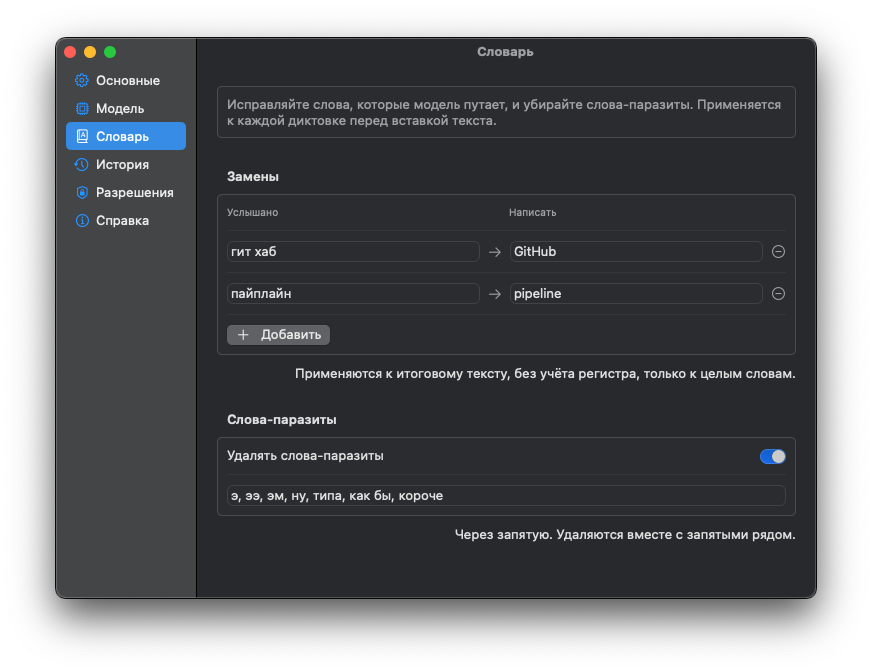
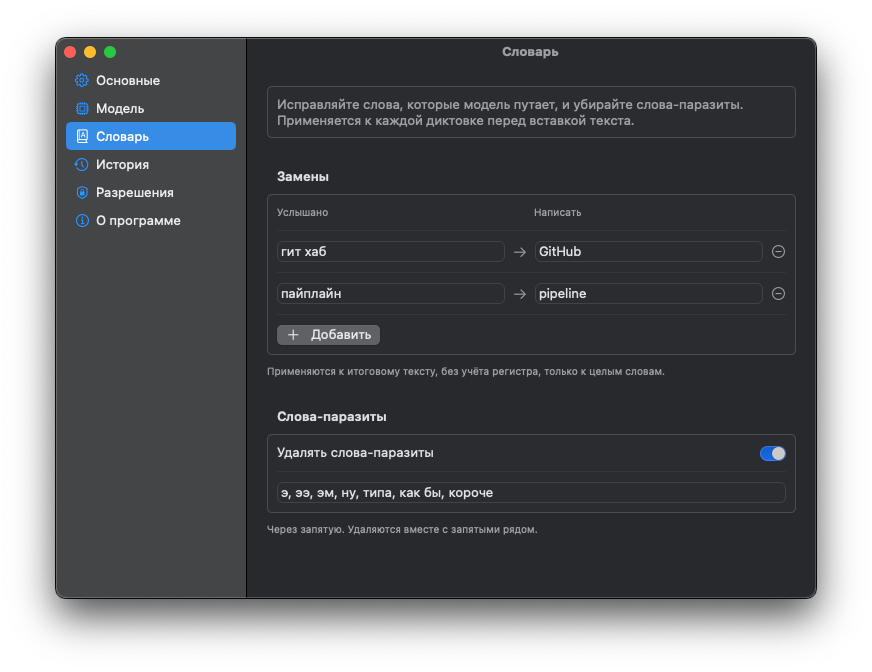
Settings: NSSplitViewController sidebar (190pt), leading footers, restore About label, new screenshots

diff --git a/Sources/Speak2Text/SettingsWindow.swift b/Sources/Speak2Text/SettingsWindow.swift
@@ -1,38 +1,31 @@
 import Cocoa
 import SwiftUI
+import Combine
 
-/// Modern settings window: translucent sidebar (NavigationSplitView) + grouped forms in the detail pane.
-struct SettingsRoot: View {
+/// Modern settings window: translucent sidebar (NSSplitViewController) + grouped forms in the detail pane.
+private let settingsItems: [(id: String, title: String, symbol: String)] = [
+    ("general", L("General"), "gearshape"),
+    ("model", L("Model"), "cpu"),
+    ("dictionary", L("Dictionary"), "character.book.closed"),
+    ("history", L("History"), "clock.arrow.circlepath"),
+    ("permissions", L("Permissions"), "lock.shield"),
+    ("about", L("About"), "info.circle")]
+
+struct SettingsSidebar: View {
     @ObservedObject var nav = SettingsNav.shared
-
-    private struct Item: Identifiable { let id: String; let title: String; let symbol: String; var idv: String { id } }
-    private var items: [Item] {
-        [Item(id: "general", title: L("General"), symbol: "gearshape"),
-         Item(id: "model", title: L("Model"), symbol: "cpu"),
-         Item(id: "dictionary", title: L("Dictionary"), symbol: "character.book.closed"),
-         Item(id: "history", title: L("History"), symbol: "clock.arrow.circlepath"),
-         Item(id: "permissions", title: L("Permissions"), symbol: "lock.shield"),
-         Item(id: "about", title: L("About"), symbol: "info.circle")]
-    }
-
     var body: some View {
-        NavigationSplitView(columnVisibility: .constant(.all)) {
-            List(selection: Binding<String?>(get: { nav.tab }, set: { if let v = $0 { nav.tab = v } })) {
-                ForEach(items) { it in
-                    Label(it.title, systemImage: it.symbol).tag(it.id)
-                }
+        List(selection: Binding<String?>(get: { nav.tab }, set: { if let v = $0 { nav.tab = v } })) {
+            ForEach(settingsItems, id: \.id) { it in
+                Label(it.title, systemImage: it.symbol).tag(it.id)
             }
-            .listStyle(.sidebar)
-            .navigationSplitViewColumnWidth(min: 200, ideal: 220, max: 260)
-            .toolbar(removing: .sidebarToggle)
-        } detail: {
-            detail
-                .navigationTitle(items.first { $0.id == nav.tab }?.title ?? "Speak2Text")
         }
-        .frame(minWidth: 680, minHeight: 460)
+        .listStyle(.sidebar)
     }
+}
 
-    @ViewBuilder private var detail: some View {
+struct SettingsDetail: View {
+    @ObservedObject var nav = SettingsNav.shared
+    var body: some View {
         switch nav.tab {
         case "model": ModelTab()
         case "dictionary": DictionaryTab()
@@ -50,7 +43,17 @@ extension AppDelegate {
     /// Opens (or brings to the front) the settings window, optionally on a given section.
     func openSettings(tab: String?) {
         if settingsWindow == nil {
-            let w = NSWindow(contentViewController: NSHostingController(rootView: SettingsRoot()))
+            let split = NSSplitViewController()
+            let side = NSSplitViewItem(sidebarWithViewController: NSHostingController(rootView: SettingsSidebar()))
+            side.minimumThickness = 190
+            side.maximumThickness = 260
+            side.canCollapse = false
+            split.addSplitViewItem(side)
+            split.addSplitViewItem(NSSplitViewItem(viewController: NSHostingController(rootView: SettingsDetail())))
+            let w = NSWindow(contentViewController: split)
+            settingsTitleSub = SettingsNav.shared.$tab.sink { [weak w] t in
+                w?.title = settingsItems.first { $0.id == t }?.title ?? "Speak2Text"
+            }
             w.styleMask = [.titled, .closable, .miniaturizable, .resizable, .fullSizeContentView]
             w.titlebarAppearsTransparent = true
             w.toolbarStyle = .unified

diff --git a/Sources/Speak2Text/SettingsView.swift b/Sources/Speak2Text/SettingsView.swift
@@ -62,6 +62,7 @@ struct GeneralTab: View {
             } footer: {
                 Text(s.mode == "hold" ? L("Hold the key while you speak, release it to insert the text.")
                                       : L("Press once to start, again to stop and insert the text. Esc cancels the recording."))
+                    .footerStyle()
             }
             Section {
                 Toggle(L("Mute other sounds while recording"), isOn: $s.muteEnabled)
@@ -119,6 +120,7 @@ struct ModelTab: View {
                 statusLine
             } footer: {
                 Text(L("Changing the accelerator recompiles CoreML: the first load can take up to about 3 minutes. Do not quit the app meanwhile."))
+                    .footerStyle()
             }
         }
         .formStyle(.grouped)
@@ -218,6 +220,7 @@ struct DictionaryTab: View {
                 Text(L("Replacements"))
             } footer: {
                 Text(L("Applied to the final text, ignoring case, on whole words only."))
+                    .footerStyle()
             }
             Section {
                 Toggle(L("Remove filler words"), isOn: $s.fillersEnabled)
@@ -227,7 +230,7 @@ struct DictionaryTab: View {
             } header: {
                 Text(L("Filler words"))
             } footer: {
-                if s.fillersEnabled { Text(L("Separated by commas. Removed together with the commas around them.")) }
+                if s.fillersEnabled { Text(L("Separated by commas. Removed together with the commas around them.")).footerStyle() }
             }
         }
         .formStyle(.grouped)
@@ -375,5 +378,14 @@ struct AboutTab: View {
         }
         .padding(.top, 28)
         .frame(maxWidth: .infinity)
+    }
+}
+
+extension View {
+    /// Подпись секции: слева, вторичным цветом, мелким шрифтом.
+    func footerStyle() -> some View {
+        self.font(.caption).foregroundStyle(.secondary)
+            .multilineTextAlignment(.leading)
+            .frame(maxWidth: .infinity, alignment: .leading)
     }
 }

diff --git a/Sources/Speak2Text/Permissions.swift b/Sources/Speak2Text/Permissions.swift
@@ -78,7 +78,7 @@ struct PermissionsView: View {
                 Text(L("Speak2Text needs three permissions"))
             } footer: {
                 if !m.allOK {
-                    Text(L("Speak2Text is not in the Input Monitoring list? Quit System Settings (⌘Q) and press the button again.") + " " + L("If the app is already in the list, remove it with the − button and add it again."))
+                    Text(L("Speak2Text is not in the Input Monitoring list? Quit System Settings (⌘Q) and press the button again.") + " " + L("If the app is already in the list, remove it with the − button and add it again.")).footerStyle()
                 }
             }
             Section {

diff --git a/Sources/Speak2Text/App.swift b/Sources/Speak2Text/App.swift
@@ -7,6 +7,7 @@ import Sparkle
 final class AppDelegate: NSObject, NSApplicationDelegate {
     nonisolated(unsafe) static var shared: AppDelegate?
     var settingsWindow: NSWindow?
+    var settingsTitleSub: Any?
     let updater = SPUStandardUpdaterController(startingUpdater: true, updaterDelegate: nil, userDriverDelegate: nil)
     let overlay = OverlayController()
     let muter = AudioMuter()

diff --git a/Sources/Speak2Text/L10n.swift b/Sources/Speak2Text/L10n.swift
@@ -22,7 +22,7 @@ private let russian: [String: String] = [
     "Dictionary": "Словарь",
     "History": "История",
     "Permissions": "Разрешения",
-    "About": "Справка",
+    "About": "О программе",
     // general
     "Hotkey": "Клавиша",
     "Press a key…": "Нажмите клавишу…",

diff --git a/docs/SPEC.md b/docs/SPEC.md
@@ -76,7 +76,7 @@
 13. **Лог**: `~/Library/Logs/Speak2Text/speak2text.log`. Формат строк как в прототипе: audio, final_wait, len, text.
 
 ## Настройки — окно
-Окно настроек: NSWindow с `.fullSizeContentView`, внутри SwiftUI NavigationSplitView: слева боковая панель (SF Symbols, фиксированная ширина, не сворачивается), справа Form `.grouped`; последний открытый раздел запоминается. Разделы:
+Окно настроек: NSWindow с `.fullSizeContentView`, контент — NSSplitViewController: слева боковая панель (`sidebarWithViewController`, ширина 190–260, не сворачивается, SF Symbols), справа SwiftUI Form `.grouped`; подписи секций — footer, слева, мелким вторичным шрифтом. Последний раздел запоминается. Разделы:
 - **Основные** (gear): клавиша (кейкап-чип: клик → «Нажмите клавишу…», Esc отменяет, ⓧ сбрасывает на правый Option), режим, язык, заглушение, звуки, плашка, автозапуск, «Выйти из Speak2Text»;
 - **Модель** (cpu): модель и скачивание, ускоритель;
 - **Словарь** (character.book.closed): замены, слова-паразиты;
